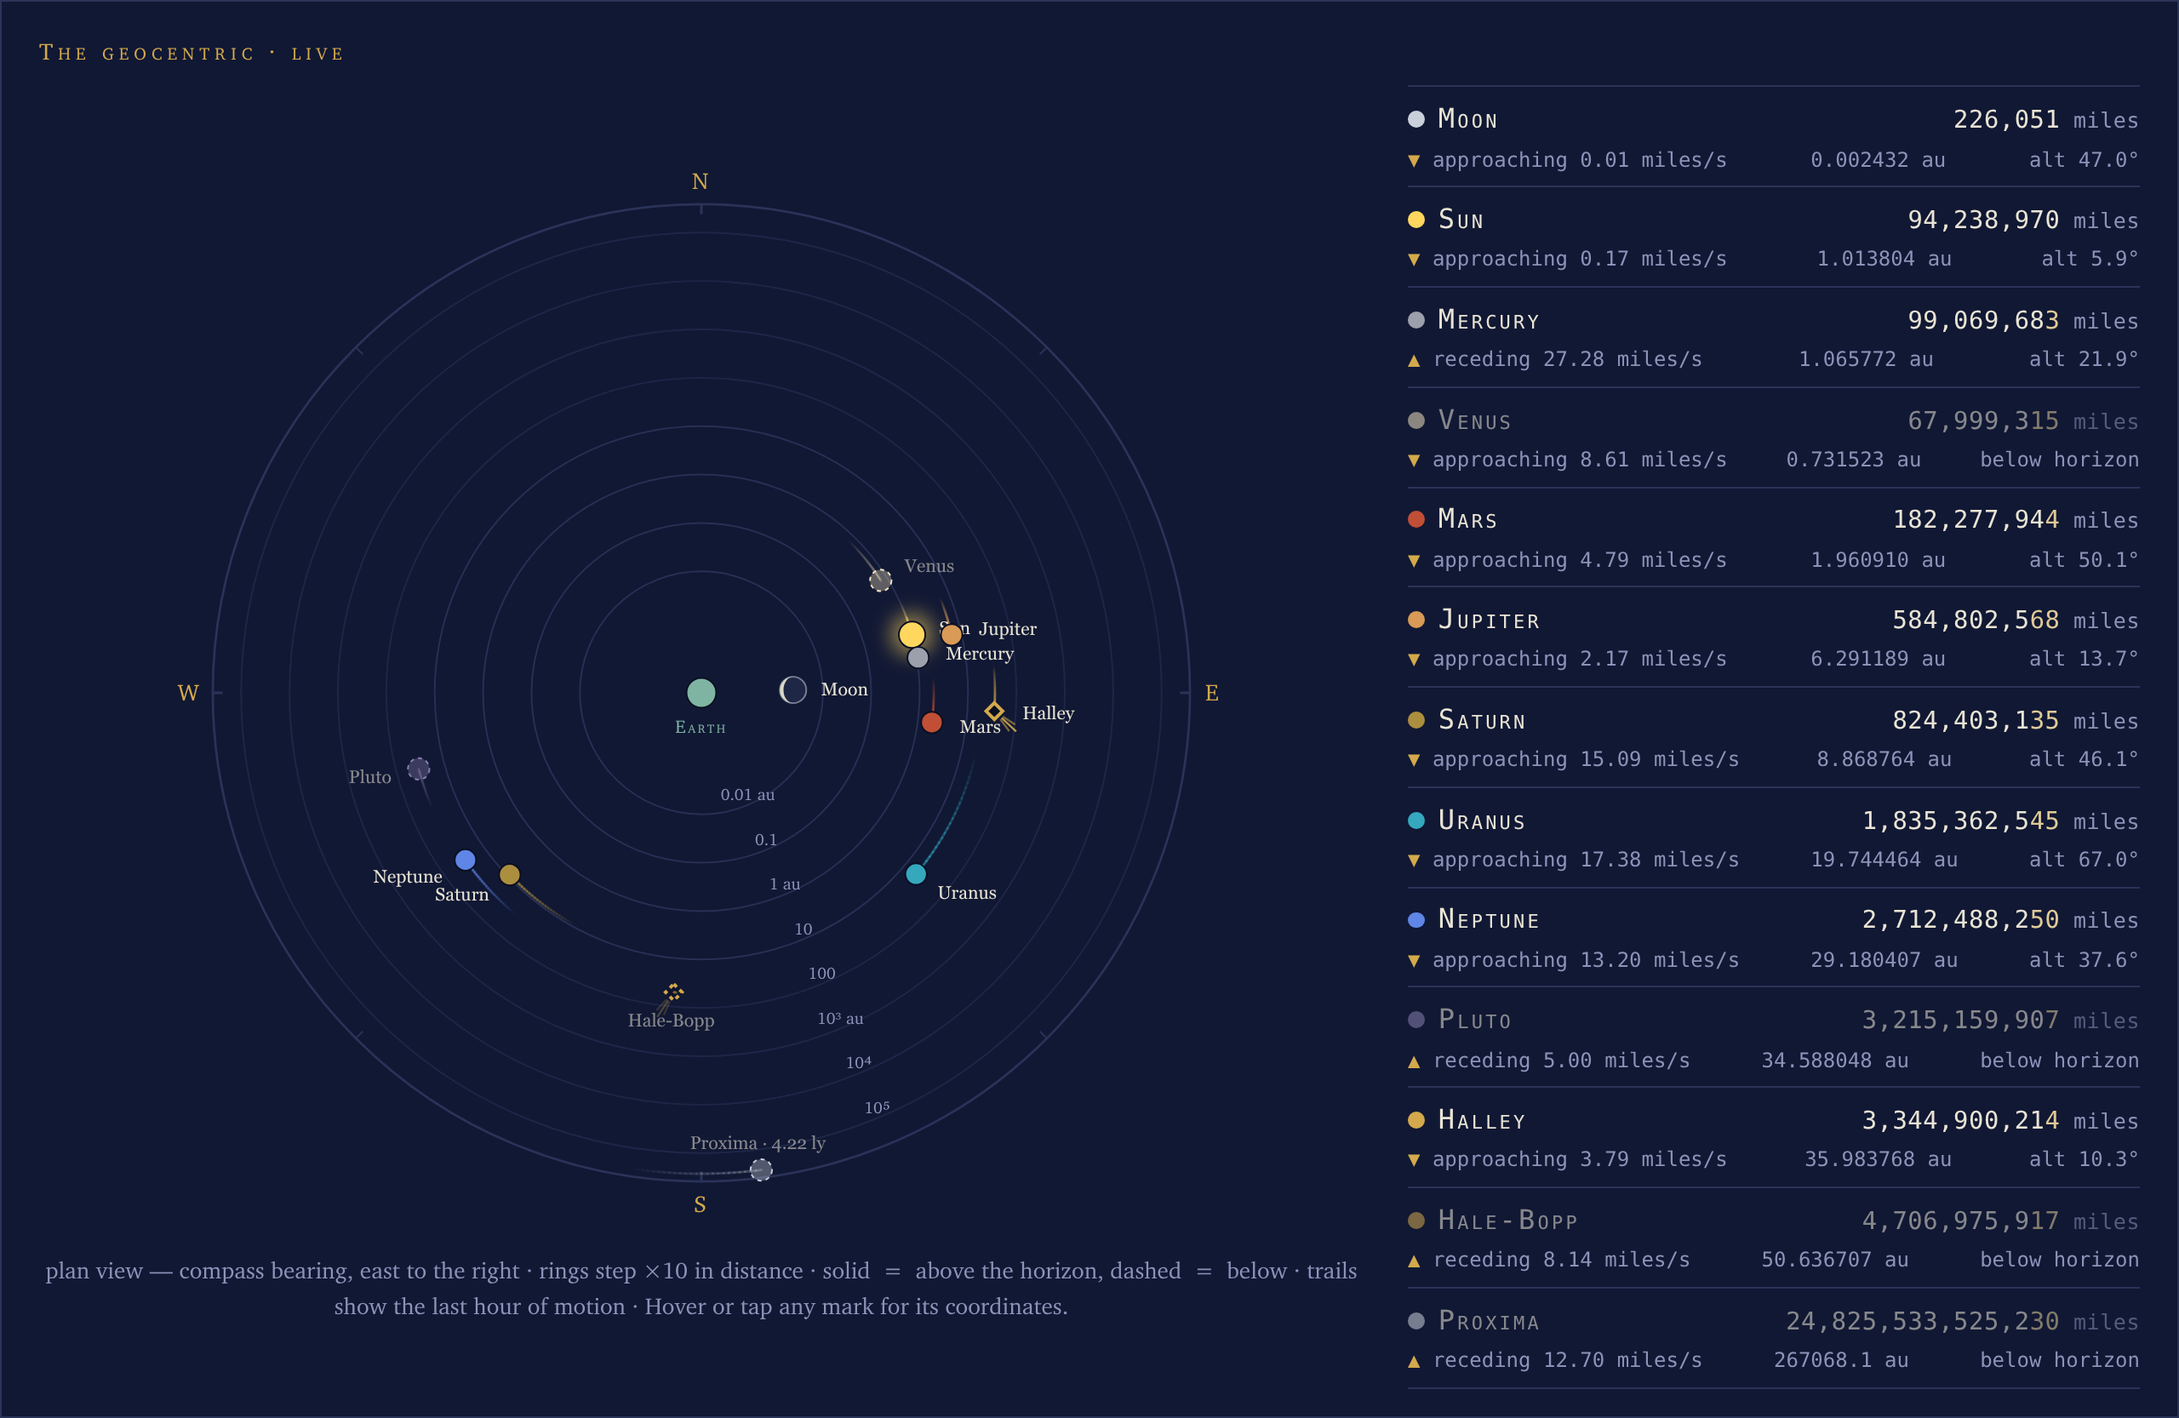
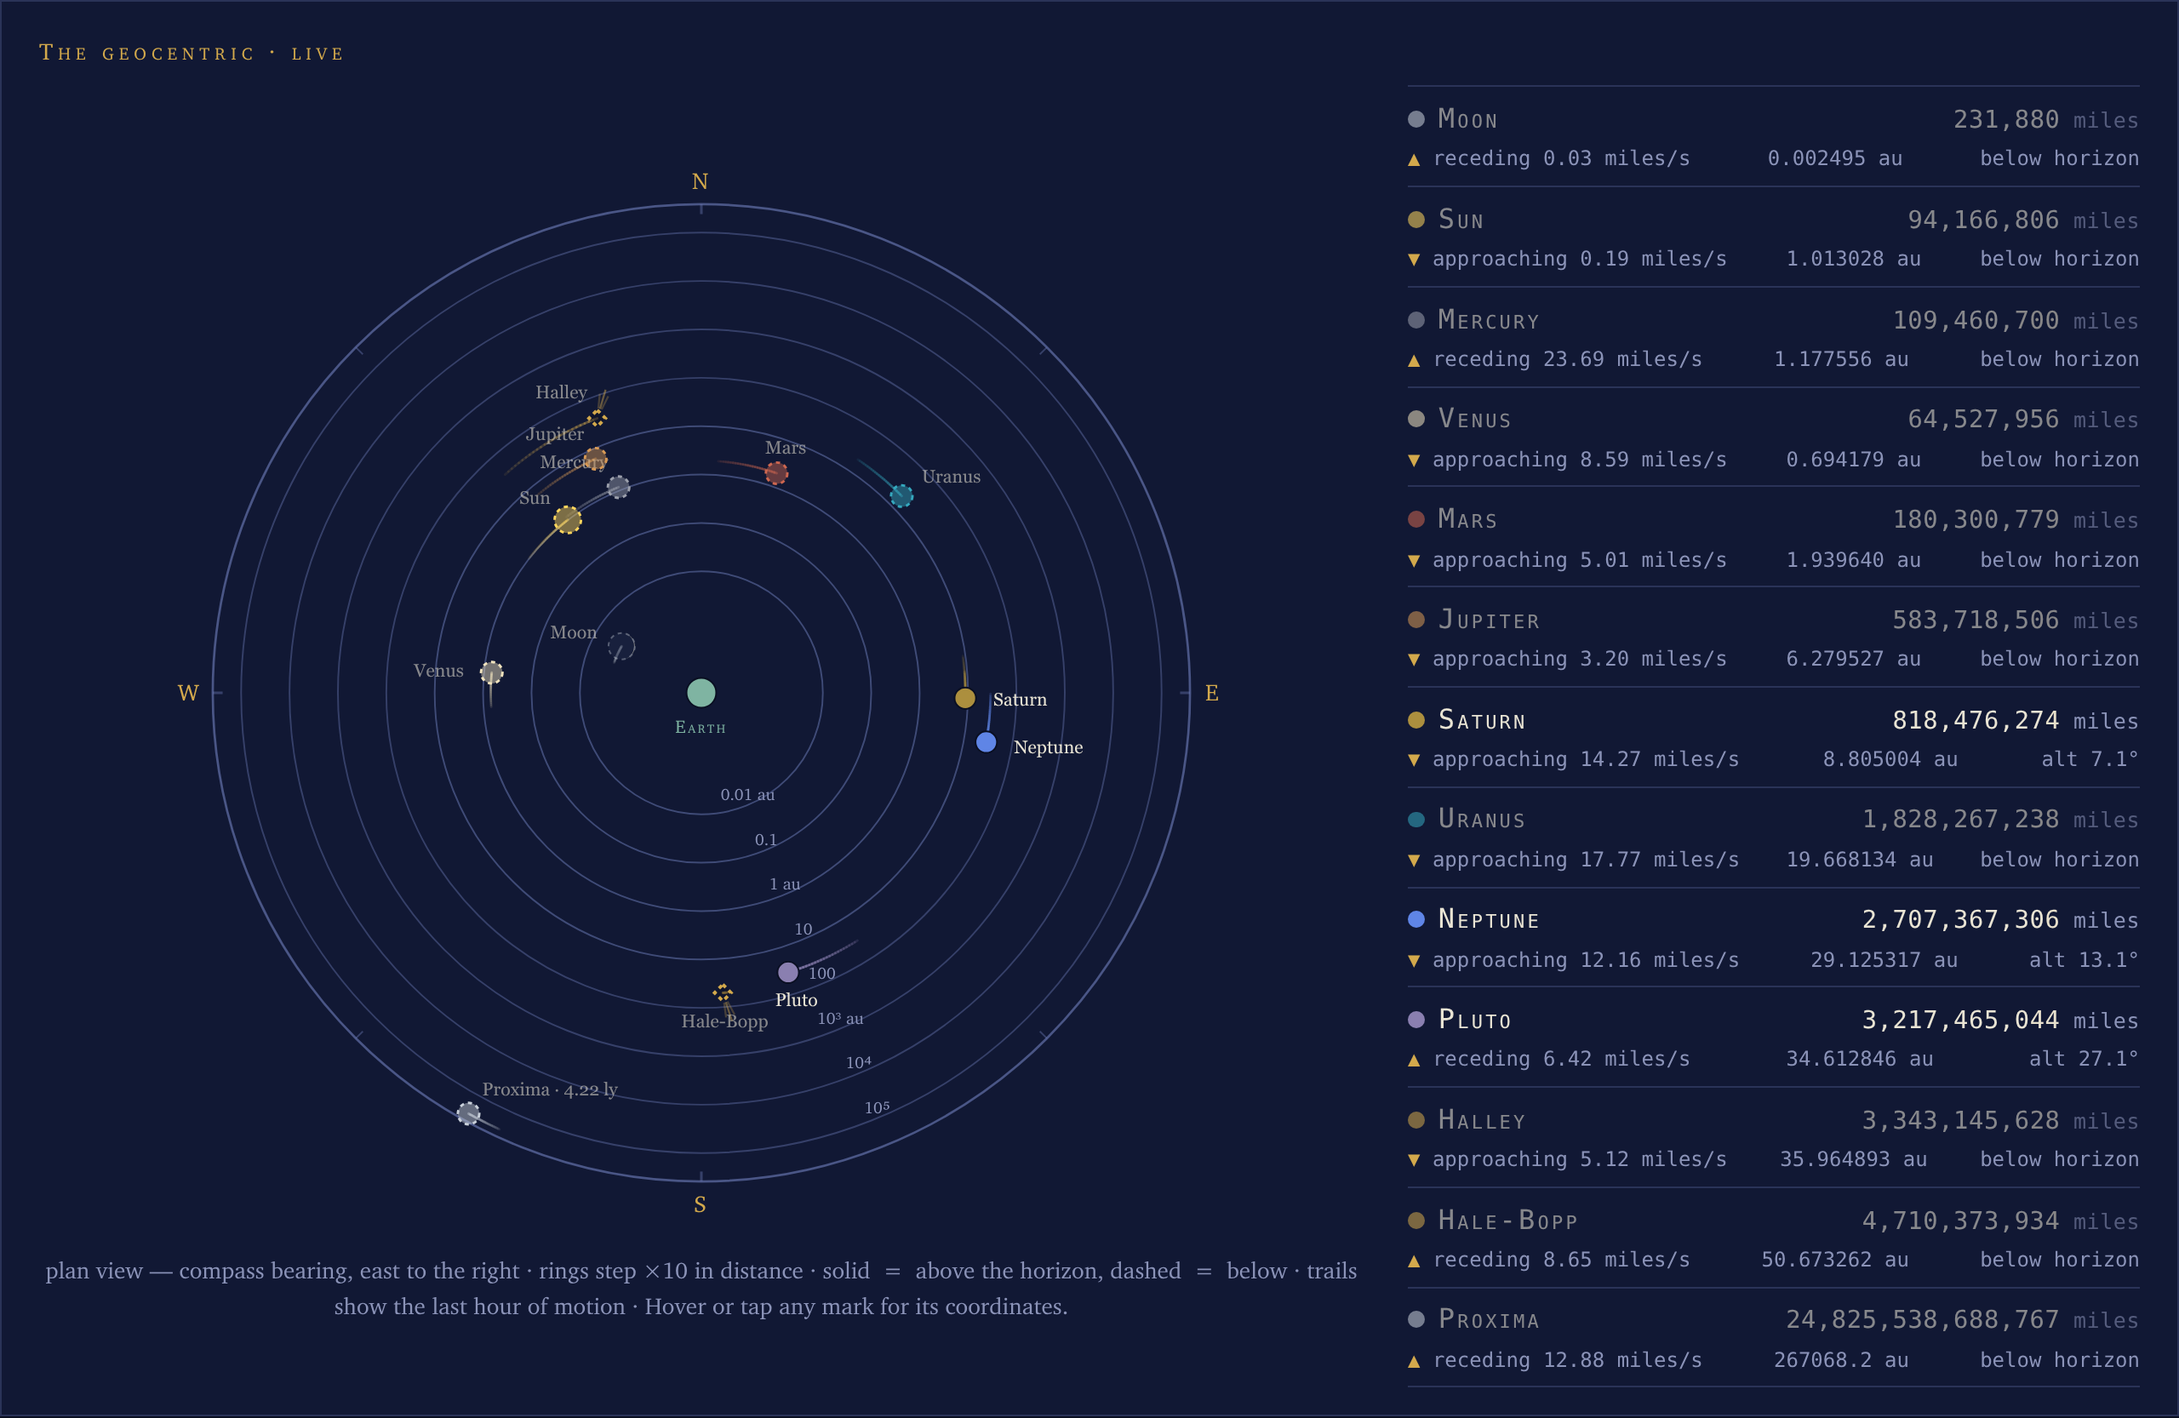
The Geocentric dial is legible again.  Its rings, ticks and rim were drawn in the color of a section border, on the panel that border surrounds -- 1.20 to 1.42 to 1, correct and invisible -- and now take a grid color of their own, weewx-skyfield 2.2's, so dial and dome still read as one instrument. 

diff --git a/skins/Celestial/celestial.css b/skins/Celestial/celestial.css
@@ -15,13 +15,27 @@
   --muted:#8B93B8;   /* secondary text */
   --brass:#D3A94C;   /* accent */
   --line:#2A3358;    /* borders, hairlines */
-  /* Per-body identity colors (weewx-skyfield 1.5's night-plate values --
+  /* Chart furniture -- the dial's rings, ticks and rim.  NOT --line: that
+   * is the color of a section border, and the dial is drawn ON the surface
+   * that border surrounds, where it measures 1.20-1.42:1.  This is
+   * weewx-skyfield 2.2's night `grid` token (same value, same reason: it
+   * fixed the identical inheritance on the dome's altitude rings and
+   * meridian cross), so the two pages still read as one family.  --line
+   * stays exactly as it is for the borders and hairlines it is for. */
+  --grid:#6E7DBA;
+  /* Per-body identity colors (weewx-skyfield's night-plate values --
    * the traditional astronomy scheme: yellow sun, silver moon, gray
    * Mercury, pearly Venus; pluto is celestial's own addition -- the Sky
    * palette has no night pluto).  Earth (the dial's center) and Proxima
-   * (silver, like the stars) are celestial's own as well. */
+   * (silver, like the stars) are celestial's own as well.  Mars follows
+   * skyfield 2.2's lift (was #C04F36, the one body dot under 3:1 on the
+   * night dome): the embedded dome emits its dot color inline, so the two
+   * agree from 2.2 on.  On a station still running 2.1 the dome keeps the
+   * darker Mars until it is upgraded -- one release of two shades on one
+   * page, accepted deliberately: the alternative is holding the dial at a
+   * value skyfield has already retired. */
   --c-sun:#FFD75E; --c-moon:#C9D0DA; --c-mercury:#9CA0AC; --c-venus:#F0E3BE;
-  --c-mars:#C04F36; --c-jupiter:#D89A56; --c-saturn:#AC8F3E;
+  --c-mars:#CE6750; --c-jupiter:#D89A56; --c-saturn:#AC8F3E;
   --c-uranus:#35A8BE; --c-neptune:#5F85E6; --c-pluto:#8A7FB0;
   --c-earth:#7FB4A2;
   color-scheme: dark;
@@ -130,24 +144,35 @@ section{background:var(--vault); border:1px solid var(--line); padding:20px 22px
 .stroke-neptune{stroke:var(--c-neptune)} .stroke-pluto{stroke:var(--c-pluto)}
 .stroke-proxima_centauri{stroke:var(--c-moon)}
 
-/* The dial's static furniture. */
-.geo-ring{fill:none; stroke:var(--line)}
-.geo-rim{fill:none; stroke:var(--line); stroke-width:1.4}
-.geo-tick{stroke:var(--line); stroke-width:1}
+/* The dial's static furniture.  The per-ring stroke-opacity (0.5 inside
+ * 10 au, 0.4 outside) is set by the javascript, which draws them.  The
+ * grid is deliberately recessive -- see the note there -- but the RIM is
+ * not scale furniture: it is the dial's outer boundary, one circle rather
+ * than eight, so it stays a notch firmer (2.50:1) and gives the receding
+ * decades something to be contained by.  The ticks follow the rings. */
+.geo-ring{fill:none; stroke:var(--grid)}
+.geo-rim{fill:none; stroke:var(--grid); stroke-opacity:.62; stroke-width:1.4}
+.geo-tick{stroke:var(--grid); stroke-opacity:.4; stroke-width:1}
 .geo-tick-major{stroke-width:1.6}
 .geo-earth{stroke:var(--night); stroke-width:1}
 /* Body dots: above the horizon they wear a night-colored ring; below they
- * dim and their outline goes dashed in their own color. */
+ * dim and their outline goes dashed in their own color.  That dashed
+ * outline is what CARRIES a down body: it is the body's own color at full
+ * strength (4.72:1 even for Mars, the darkest) where the dimmed fill
+ * reaches 1.90, so the weight belongs on the outline.  1.5px, not the
+ * hairline it was through 8.1. */
 .geodot.ring{stroke:var(--night); stroke-width:1}
-.geodot.below{fill-opacity:.35; stroke-width:1; stroke-dasharray:2.5 2.5}
+.geodot.below{fill-opacity:.45; stroke-width:1.5; stroke-dasharray:2.5 2.5}
 .sunglow{filter:blur(6px); opacity:.55}
 /* The moon's true-phase disc, silver-rimmed so a new moon never vanishes. */
 .moon-dark{fill:#1E2745}
 .moon-lit{fill:#DDD8C4}
 .moon-rim{fill:none; stroke:var(--c-moon); stroke-opacity:.55; stroke-width:1}
-.geomoon.below{opacity:.45}
-.geomoon.below .moon-rim{stroke-dasharray:2.5 2.5}
-/* Motion trails: per-segment opacity is set by the javascript. */
+.geomoon.below{opacity:.55}
+.geomoon.below .moon-rim{stroke-dasharray:2.5 2.5; stroke-opacity:.7}
+/* Motion trails: per-segment opacity is set by the javascript, which ramps
+ * it from a visible floor (the old ramp started from nothing: the oldest
+ * segment landed at 1.02:1, ink spent where no eye can find it). */
 .trail{stroke-width:1.5; stroke-linecap:round}
 /* Comet marks (javascript-drawn on the dial): a brass diamond with an
  * anti-sunward tail fan, solid when naked-eye bright (mag <= 6), the
@@ -156,9 +181,9 @@ section{background:var(--vault); border:1px solid var(--line); padding:20px 22px
  * dynamic, so per-tag classes cannot exist (the satellite precedent). */
 .cometdot{fill:var(--brass); stroke:var(--night); stroke-width:1.5}
 .cometdot.faint{fill:var(--night); stroke:var(--brass); stroke-width:2}
-.cometdot.below{fill-opacity:.35; stroke-dasharray:2.5 2.5}
+.cometdot.below{fill-opacity:.45; stroke-dasharray:2.5 2.5}
 .comet-tail{stroke:var(--brass)}
-.geocomet.below .comet-tail{opacity:.35}
+.geocomet.below .comet-tail{opacity:.5}
 .stroke-comet{stroke:var(--brass)}
 .chip-comet{background:var(--brass)}
 
@@ -190,9 +215,18 @@ svg text{fill:var(--ink); font-family:Charter, Georgia, serif}
 .satline{font-size:.8rem}
 /* Dome typography borrowed from weewx-skyfield's sky.css -- names and
  * values kept in step, same cross-repo rule as cardinal/bodylab/gridlab
- * above (the light-theme variants stay behind: this page is night-only). */
-.starlab{font-size:10px; fill:var(--muted); font-family:Georgia, serif; font-style:italic}
-.conlab{font-size:10px; fill:#7C8FC9; font-family:Georgia, serif; font-style:italic;
+ * above (the light-theme variants stay behind: this page is night-only).
+ * These small labels are their own value, not --muted: --muted is set for
+ * body copy on the panel SURFACE, and the dome and next-visible-pass charts
+ * put them on the dome gradient instead, whose rim is much lighter -- there
+ * --muted reached only 3.70:1 (skyfield 2.2 lifted all three).  .skylab is
+ * the dome's scoped opt-in, worn by the ring-degree labels as
+ * "mono gridlab skylab"; the axis labels on every other panel sit on the
+ * panel surface and keep plain .gridlab.  Equal specificity, so .skylab
+ * MUST stay after .gridlab above -- source order is all that makes it win. */
+.skylab{fill:#9FA5C4}
+.starlab{font-size:10px; fill:#9FA5C4; font-family:Georgia, serif; font-style:italic}
+.conlab{font-size:10px; fill:#9DABD7; font-family:Georgia, serif; font-style:italic;
         letter-spacing:.14em; text-transform:uppercase}
 .satlab{fill:var(--brass); font-family:Georgia, serif}
 .nowlab{font-size:10px; fill:var(--brass)}

diff --git a/tests/test_celestial.py b/tests/test_celestial.py
@@ -1986,6 +1986,69 @@ class TestSampleSkinRenders:
         assert (skytip_rule(os.path.join(SKIN_DIR, 'celestial.css'))
                 == skytip_rule(os.path.join(sky_skin, 'sky.css')))
 
+    def test_chart_palette_in_step_with_skyfield(self):
+        """The dial's grid color, its Mars dot and the three dome label
+        colors are weewx-skyfield's values copied in -- the same cross-repo
+        rule as sky.js and the .skytip rule above, and the same reason: the
+        dome and the Next Visible Pass chart arrive as skyfield's own SVG
+        with their colors already inside them, so a value that drifts on
+        this side puts two shades of one thing on one page.  skyfield 2.2
+        retuning this palette (grid, night Mars, the small labels) is
+        exactly the event this pins.  grid and mars live in skyfield's
+        PALETTES dict, because the charts emit those two inline; the label
+        colors live in its sky.css.  Skips when no weewx-skyfield is
+        available."""
+        candidates = [
+            os.path.join(os.path.dirname(REPO_ROOT), 'weewx-skyfield',
+                         'skins', 'Skyfield'),
+            '/home/weewx/skins/Skyfield',
+        ]
+        sky_skin = next((d for d in candidates
+                         if os.path.exists(os.path.join(d, 'sky.css'))), None)
+        sky_py = next((os.path.join(d, 'wxskyfield_sky.py')
+                       for d in WXSKYFIELD_DIRS
+                       if os.path.exists(os.path.join(d, 'wxskyfield_sky.py'))),
+                      None)
+        if sky_skin is None or sky_py is None:
+            pytest.skip('weewx-skyfield is not available')
+
+        cel_css = open(os.path.join(SKIN_DIR, 'celestial.css'),
+                       encoding='utf-8').read()
+        sky_css = open(os.path.join(sky_skin, 'sky.css'), encoding='utf-8').read()
+
+        def token(css, name):
+            """The value of a --custom-property in the :root block."""
+            m = re.search(r'--%s:\s*(#[0-9A-Fa-f]{6})' % name, css)
+            assert m is not None, name
+            return m.group(1).upper()
+
+        def label_fill(css, cls):
+            """The fill of a class's OWN rule.  Anchored at line start so the
+            `:root.theme-light` overrides -- which this night-only page does
+            not copy -- can never be the one that matches."""
+            m = re.search(r'^\.%s\{([^}]*)\}' % cls, css, re.M | re.S)
+            assert m is not None, cls
+            fill = re.search(r'fill:\s*(#[0-9A-Fa-f]{6})', m.group(1))
+            assert fill is not None, cls
+            return fill.group(1).upper()
+
+        # skyfield's 'night' palette is the one celestial gets: the template
+        # calls dome_svg($almanac) with no palette argument, and dome_svg
+        # defaults to 'night'.
+        sky_src = open(sky_py, encoding='utf-8').read()
+        night = re.search(r"\n    'night':\s*\{(.*?)\n    \},", sky_src, re.S)
+        assert night is not None, sky_py
+
+        def palette_color(key):
+            m = re.search(r"'%s':\s*'(#[0-9A-Fa-f]{6})'" % key, night.group(1))
+            assert m is not None, key
+            return m.group(1).upper()
+
+        assert token(cel_css, 'grid') == palette_color('grid')
+        assert token(cel_css, 'c-mars') == palette_color('mars')
+        for cls in ('skylab', 'starlab', 'conlab'):
+            assert label_fill(cel_css, cls) == label_fill(sky_css, cls), cls
+
     def test_renders_with_pyephem_almanac(self):
         """With PyEphem but no weewx-skyfield, the roster first-paints
         complete except the Proxima Centauri row (PyEphem's star catalog

diff --git a/install.py b/install.py
@@ -40,7 +40,7 @@ def loader():
 class CelestialInstaller(ExtensionInstaller):
     def __init__(self):
         super(CelestialInstaller, self).__init__(
-            version = "8.1.2",
+            version = "8.2",
             name = 'celestial',
             description = 'A live celestial report driven by weewx-loopdata almanac fields.',
             author = "John A Kline",

diff --git a/bin/user/celestial.py b/bin/user/celestial.py
@@ -33,7 +33,7 @@ import weewx
 # get a logger object
 log = logging.getLogger(__name__)
 
-CELESTIAL_VERSION = '8.1.2'
+CELESTIAL_VERSION = '8.2'
 
 if sys.version_info[0] < 3 or (sys.version_info[0] == 3 and sys.version_info[1] < 9):
     raise weewx.UnsupportedFeature(

diff --git a/docs/index.md b/docs/index.md
@@ -15,7 +15,7 @@ every loop packet.
 [Download weewx-celestial.zip](https://github.com/chaunceygardiner/weewx-celestial/releases/latest/download/weewx-celestial.zip){: .btn }
 [Report an issue](https://github.com/chaunceygardiner/weewx-celestial/issues){: .btn }
 
-This manual documents weewx-celestial **8.1.2**, the current release.
+This manual documents weewx-celestial **8.2**, the current release.
 
 ## Start here
 
@@ -48,10 +48,11 @@ page you leave open, on which everything moves.
 
 It is the bundled `Celestial` skin: a row of countdown chips over three
 panels — the Geocentric dial, the live sky dome, and the Next Visible Pass
-chart.  Here it is entire, in the bundled sample report (Palo Alto, a July
-evening at 9:12 PM — the first-quarter moon high in the southwest trailing
-its wake, Mercury and Mars in the west, the freshly set sun dashed below the
-horizon, Proxima Centauri alone at the rim, and every odometer ticking):
+chart.  Here it is entire, in the bundled sample report (Palo Alto, an
+August night at 10:36 PM — Saturn and Neptune newly up in the east and
+Pluto high in the south, everything else dashed below the horizon and
+trailing its wake, Proxima Centauri alone at the rim, and every odometer
+ticking):
 
 ![The Celestial page](https://raw.githubusercontent.com/chaunceygardiner/weewx-celestial/master/CelestialSampleReport.png)
 
@@ -95,10 +96,11 @@ dial point, solid when naked-eye bright, hollow when fainter — and
 honestly absent when the Minor Planet Center has dropped the comet's
 elements.
 
-Both installer-default comets on the live dial — Halley's diamond low in
-the eastern sky, its three-ray tail fanning away from the sun's own dial
-point, Hale-Bopp dimmed below the southern horizon — with their live
-roster rows below the planets':
+Both installer-default comets on the live dial — Halley in the
+north-west, Hale-Bopp due south, each a hollow diamond because both are
+far below naked-eye brightness, both dimmed and dashed for being under
+the horizon at this hour, their three-ray tails fanning away from the
+sun's own dial point — with their live roster rows below the planets':
 
 ![The Geocentric dial with both comet diamonds and their tails](https://raw.githubusercontent.com/chaunceygardiner/weewx-celestial/master/CelestialDial-Comets.png)
 

diff --git a/docs/configuration.md b/docs/configuration.md
@@ -130,6 +130,15 @@ from loop data.  What renders depends on the almanac WeeWX has:
 | **PyEphem** | The Geocentric minus the Proxima Centauri row (PyEphem's star catalog lacks it), the sunset and darkness chips; no dome or chart — the dome panel shows an install hint |
 | **built-in** | The page generates, but the panels show install hints — the built-in almanac serves none of the positions or distances the Celestial page runs on |
 
+2.2 adds nothing to that top row — no new fields, no new marks — but the
+dome and the Next Visible Pass chart carry their colors inside the SVG
+this skin embeds, so upgrading to it is what makes their altitude rings and
+meridian cross visible.  It is also where the dome's Mars comes up to meet
+the dial's: celestial 8.2 lifts its own Mars dot, and until 2.2 is
+installed the embedded dome still draws the darker one.  The half of that
+pass which lives in this skin's own stylesheet (the star and constellation
+names) ships in celestial 8.2 and applies at any weewx-skyfield version.
+
 The footer credit is generated truthfully for whichever almanac actually
 serves the page.
 

diff --git a/docs/upgrading.md b/docs/upgrading.md
@@ -28,6 +28,14 @@ appends any fields-line entries a newer version reads (append-only,
 printing each one), and the restart both reloads that line in
 weewx-loopdata and refreshes the deployed `celestial.css` and `sky.js`.
 
+One note for 8.2: half of its contrast pass — the Geocentric dial's grid,
+its below-horizon marks and trails, and the sky dome's star and
+constellation names — lands with this install.  The other half lives
+inside the dome and the Next Visible Pass chart, which draw their own
+colors, and arrives only when **weewx-skyfield 2.2** is installed: their
+altitude rings and meridian cross stay invisible until then, and the
+dome's Mars stays a shade darker than the dial's.  Upgrade both.
+
 ## Upgrading from 7.x
 
 Install right over the existing version, then restart WeeWX —
